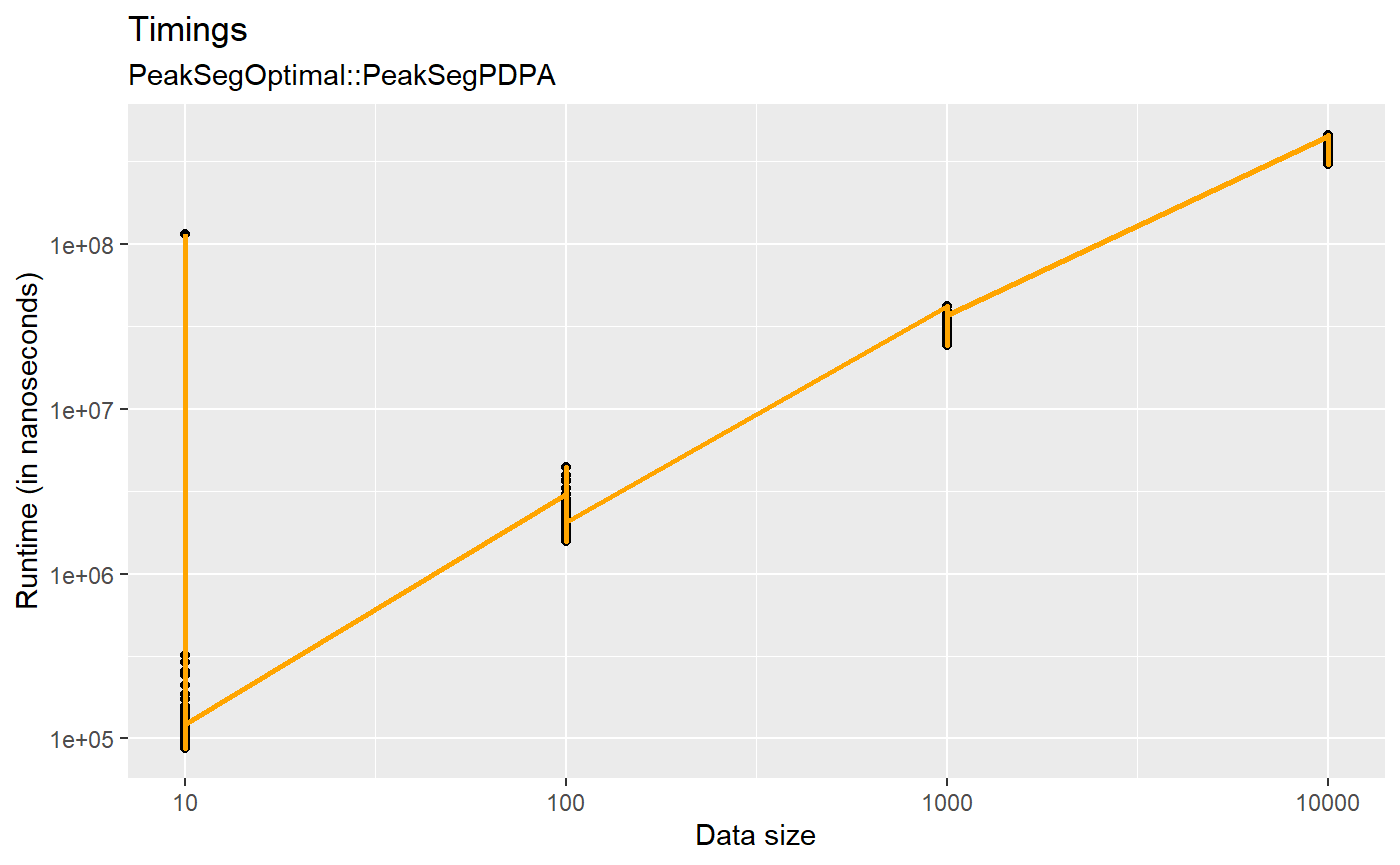
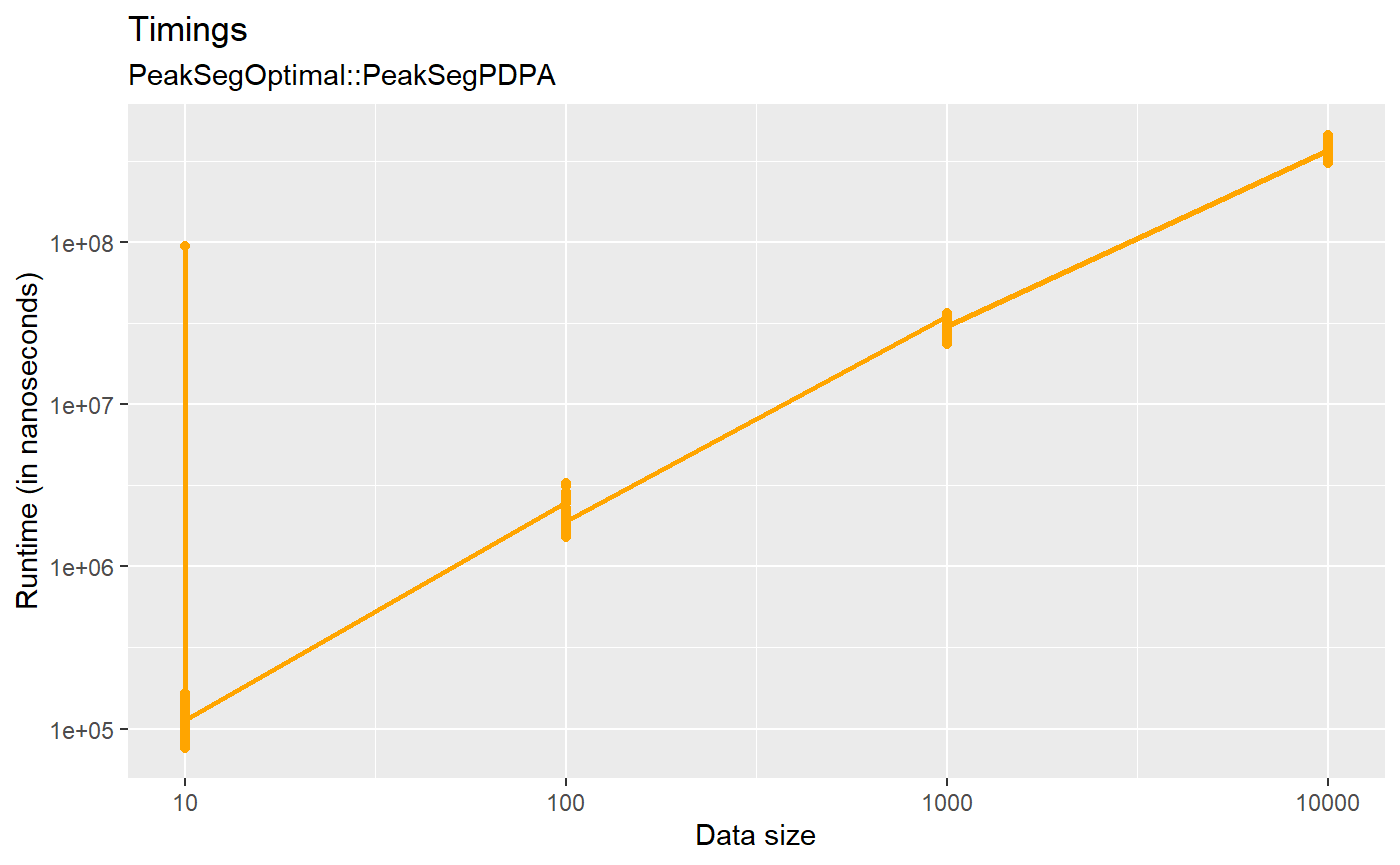
Add comparison plots & update plotters section

diff --git a/docs/articles/testComplexity.html b/docs/articles/testComplexity.html
@@ -280,25 +280,22 @@ PeakSegOptimal::PeakSegPDPA(data.vec, max.segments = 3L)}, data.sizes = 10^seq(1
 <h3 class="hasAnchor">
 <a href="#plotters" class="anchor"></a><a href="https://anirban166.github.io/testComplexity/reference/index.html#section-plotters">Plotters</a>
 </h3>
-<p>These functions are for plotting the metrics returned by the quantifiers, in case the user still prefers to diagnose the obtained complexity result via the traditional method, with a visual representation of the benchmarked data. Considering the columns from the data frames returned by the quantiftying functions, the user can create plots for:</p>
-<ul>
-<li>Timings vs Data sizes, via <code>plotTimings</code>: <br>
-</li>
-</ul>
+<p>These functions are for plotting the metrics returned by the quantifiers, in case the user still prefers to diagnose the obtained complexity result via the traditional method, i.e. with a visual representation of the benchmarked data.</p>
+<p>Considering the columns from the data frames returned by the quantiftying functions, the user can create plots for ‘Timings’ vs ‘Data sizes’ via <code><a href="../reference/plotTimings.html">plotTimings()</a></code> and for ‘Memory usage’ vs ‘Data sizes’ via <code><a href="../reference/plotMemoryUsage.html">plotMemoryUsage()</a></code>: <br></p>
 <div class="sourceCode" id="cb11"><html><body><pre class="r"><span class="fu"><a href="https://rdrr.io/r/base/library.html">library</a></span>(<span class="no">testComplexity</span>)
+<span class="co"># plot the trend between benchmarked timings and data sizes:</span>
 <span class="no">df</span> <span class="kw">&lt;-</span> <span class="fu"><a href="../reference/asymptoticTimings.html">asymptoticTimings</a></span>(<span class="kw pkg">PeakSegOptimal</span><span class="kw ns">::</span><span class="fu"><a href="https://rdrr.io/pkg/PeakSegOptimal/man/PeakSegPDPA.html">PeakSegPDPA</a></span>(<span class="fu"><a href="https://rdrr.io/r/stats/Poisson.html">rpois</a></span>(<span class="no">N</span>, <span class="fl">1</span>), <span class="kw">max.segments</span> <span class="kw">=</span> <span class="fl">3L</span>), <span class="kw">data.sizes</span> <span class="kw">=</span> <span class="fl">10</span>^<span class="fu"><a href="https://rdrr.io/r/base/seq.html">seq</a></span>(<span class="fl">1</span>, <span class="fl">4</span>))
-<span class="fu"><a href="../reference/plotTimings.html">plotTimings</a></span>(<span class="no">df</span>, <span class="kw">titles</span> <span class="kw">=</span> <span class="fu"><a href="https://rdrr.io/r/base/list.html">list</a></span>(<span class="st">"Timings"</span>, <span class="st">"PeakSegOptimal::PeakSegPDPA"</span>), <span class="kw">line.color</span> <span class="kw">=</span> <span class="st">"orange"</span>, <span class="kw">point.color</span> <span class="kw">=</span> <span class="st">"black"</span>, <span class="kw">line.size</span> <span class="kw">=</span> <span class="fl">1</span>, <span class="kw">point.size</span> <span class="kw">=</span> <span class="fl">1.5</span>)</pre></body></html></div>
-<p><img src="testComplexity_files/figure-html/unnamed-chunk-1-1.png" width="700"></p>
-<ul>
-<li>Memory Allocations vs Data sizes, via <code>plotMemoryUsage</code>: <br>
-</li>
-</ul>
-<div class="sourceCode" id="cb12"><html><body><pre class="r"><span class="fu"><a href="https://rdrr.io/r/base/library.html">library</a></span>(<span class="no">testComplexity</span>)
+<span class="fu"><a href="../reference/plotTimings.html">plotTimings</a></span>(<span class="no">df</span>, <span class="kw">titles</span> <span class="kw">=</span> <span class="fu"><a href="https://rdrr.io/r/base/list.html">list</a></span>(<span class="st">"Timings"</span>, <span class="st">"PeakSegOptimal::PeakSegPDPA"</span>), <span class="kw">line.color</span> <span class="kw">=</span> <span class="st">"orange"</span>, <span class="kw">point.color</span> <span class="kw">=</span> <span class="st">"orange"</span>, <span class="kw">line.size</span> <span class="kw">=</span> <span class="fl">1</span>, <span class="kw">point.size</span> <span class="kw">=</span> <span class="fl">1.5</span>)
+<span class="co"># plot the trend between computed memory allocations vs data sizes:</span>
 <span class="no">df</span> <span class="kw">&lt;-</span> <span class="fu"><a href="../reference/asymptoticMemoryUsage.html">asymptoticMemoryUsage</a></span>(<span class="kw pkg">PeakSegOptimal</span><span class="kw ns">::</span><span class="fu"><a href="https://rdrr.io/pkg/PeakSegOptimal/man/PeakSegPDPA.html">PeakSegPDPA</a></span>(<span class="fu"><a href="https://rdrr.io/r/stats/Poisson.html">rpois</a></span>(<span class="no">N</span>, <span class="fl">1</span>), <span class="kw">max.segments</span> <span class="kw">=</span> <span class="fl">3L</span>), <span class="kw">data.sizes</span> <span class="kw">=</span> <span class="fl">10</span>^<span class="fu"><a href="https://rdrr.io/r/base/seq.html">seq</a></span>(<span class="fl">1</span>, <span class="fl">4</span>, <span class="kw">by</span> <span class="kw">=</span> <span class="fl">0.1</span>))
-<span class="fu"><a href="../reference/plotMemoryUsage.html">plotMemoryUsage</a></span>(<span class="no">df</span>, <span class="kw">titles</span> <span class="kw">=</span> <span class="fu"><a href="https://rdrr.io/r/base/list.html">list</a></span>(<span class="st">"Memory usage"</span>, <span class="st">"PeakSegOptimal::PeakSegPDPA"</span>), <span class="kw">line.color</span> <span class="kw">=</span> <span class="st">"orange"</span>, <span class="kw">point.color</span> <span class="kw">=</span> <span class="st">"black"</span>, <span class="kw">line.size</span> <span class="kw">=</span> <span class="fl">1</span>, <span class="kw">point.size</span> <span class="kw">=</span> <span class="fl">1.5</span>)</pre></body></html></div>
-<p><img src="testComplexity_files/figure-html/unnamed-chunk-2-1.png" width="700"></p>
+<span class="fu"><a href="../reference/plotMemoryUsage.html">plotMemoryUsage</a></span>(<span class="no">df</span>, <span class="kw">titles</span> <span class="kw">=</span> <span class="fu"><a href="https://rdrr.io/r/base/list.html">list</a></span>(<span class="st">"Memory usage"</span>, <span class="st">"PeakSegOptimal::PeakSegPDPA"</span>), <span class="kw">line.color</span> <span class="kw">=</span> <span class="st">"orange"</span>, <span class="kw">point.color</span> <span class="kw">=</span> <span class="st">"orange"</span>, <span class="kw">line.size</span> <span class="kw">=</span> <span class="fl">1</span>, <span class="kw">point.size</span> <span class="kw">=</span> <span class="fl">1.5</span>)</pre></body></html></div>
+<p>The user can add themes to the function itself (since it returns a ggplot object) to suit his/her aesthetics: <br></p>
+<p><img src="https://raw.githubusercontent.com/Anirban166/testComplexity/master/Images/timememorycDPA.png"><!-- --></p>
+<p>For the users relatively new to such diagnostic plots for benchmarking/profiling, it might seem hard to figure the trend just by looking at such individual plots. By testing with more functions, the graphical trends for quadratic/log-linear/linear classes become more clearly distinguishable over time. But for a quicker alternative, comparison plots can be created. For instance, the function we considered in our examples here (<code>PeakSegPDPA</code>) follows a log-linear trend (as proven above), so we can consider another function with either a lower or higher complexity class, and test for our function’s plot-line to be above or lower respectively. As an example, consider comparing the trends of <code><a href="https://rdrr.io/pkg/PeakSegOptimal/man/PeakSegPDPA.html">PeakSegOptimal::PeakSegPDPA()</a></code> with the function <a href="https://github.com/tdhock/PeakSegDP/blob/master/R/cDPA.R"><code><a href="https://rdrr.io/pkg/PeakSegDP/man/cDPA.html">PeakSegDP::cDPA()</a></code></a>, which is <a href="https://anirban166.github.io/testComplexity/articles/cDPA.html">found</a> to be quadratic in nature: <br></p>
+<p><img src="https://raw.githubusercontent.com/Anirban166/RGSOC20_Tests/master/Images/finalplot.png"><!-- --></p>
+<p>By observing the above figure, the user can tell that <code>PeakSegPDPA()</code> would fall in a lower complexity class in comparison to <code>cDPA()</code> (provided we know the later follows a quadratic trend), with the difference scaling asymptotically. However, it might not be clear whether it falls in the log-linear or linear zone by just looking at this comparison, (visually diagnosing a distinct complexity class from benchmarked data is difficult) which is the reason why our package thrives to provide a much more convenient alternative via the use of testers and complexity classifiers (operating on data supplied from the quantifiers).</p>
 <hr>
-<p>That sums up the functionality offered by testComplexity <code>0.0.0.9000</code>. For more examples, please check the articles section of the <a href="https://anirban166.github.io/testComplexity/">website</a>.</p>
+<p>That sums up the functionality offered by testComplexity <code>0.0.0.9000</code>. For more examples, please check the articles section from the navigation bar of the <a href="https://anirban166.github.io/testComplexity/">website</a>.</p>
 </div>
 </div>
   </div>
